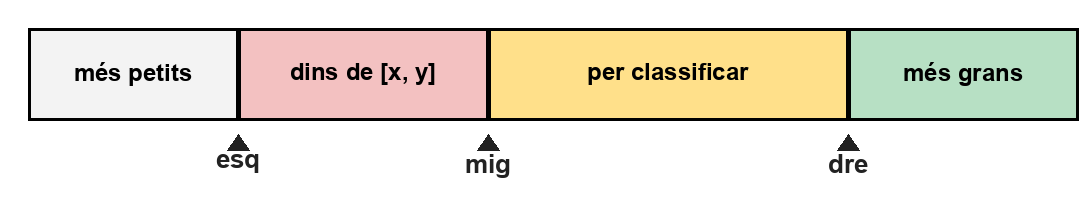
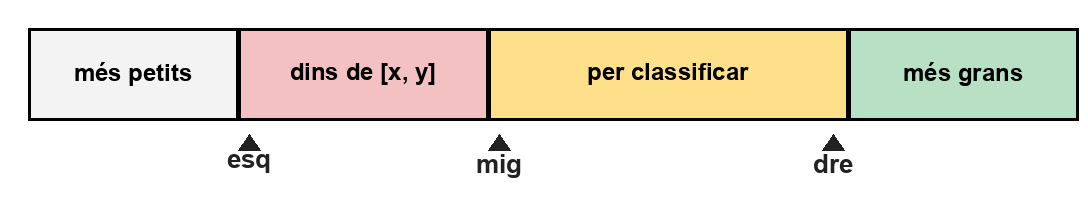
Invariants

Changed region(s): [[0.4062, 0.6408, 0.5, 0.8738], [0.75, 0.6408, 0.8125, 0.8447], [0.1875, 0.6699, 0.25, 0.8447]]

diff --git a/python/src/invariants/index.md b/python/src/invariants/index.md
@@ -159,15 +159,15 @@ Com heu vist, hem utilitzant l'invariant per guiar tota l'escriptura de la funci
 
 ## Capgirar els dígits
 
-Volem una funció que, donat un enter $m \ge 0$, en retorni un altre amb els mateixos dígits en base 10 escrits del revés. Aquests són alguns exemples:
+Volem una funció que, donat un enter $m \ge 0$, en retorni un altre $r$ amb els mateixos dígits en base 10 escrits del revés. Aquests són alguns exemples:
 
-|   `m` | resultat |
-| ----: | -------: |
-| 35276 |    67253 |
-|    19 |       91 |
-|     3 |        3 |
-|     0 |        0 |
-|   100 |        1 |
+|   `m` |   `r` |
+| ----: | ----: |
+| 35276 | 67253 |
+|    19 |    91 |
+|     3 |     3 |
+|     0 |     0 |
+|   100 |     1 |
 
 L'invariant el representa gràficament com a segueix:
 
@@ -200,11 +200,15 @@ def capgira_digits(m: int) -> int:
     return r
 ```
 
+Com veieu, un invariant gràfic com el donar ajuda a dissenyar i comprendre el bucle.
+
 ## Classificar els elements d'una llista
 
-Tenim una llista `L` i un interval `[x, y]`, amb $x \le y$. Volem reordenar `L` de manera que els elements menors que `x` quedin a la part esquerra, els majors que `y` a la part dreta, i els de l'interval al mig. Dins de cada part, l'ordre no importa.
+Tenim una llista `L` i un interval `[x, y]`, amb `x <= y`. Volem reordenar `L` de manera que els elements menors que `x` quedin a la part esquerra, els majors que `y` a la part dreta, i els de l'interval al mig. Dins de cada part, l'ordre no importa.
 
-Per a l'interval `[6, 9]` i la llista `[15, 7, 3, 0, 10, 6, 11, 9, 1, 13]`, un resultat possible és `[1, 3, 0, 7, 9, 6, 11, 10, 13, 15]`: els tres primers són menors que 6, els tres següents cauen dins de `[6, 9]` i els quatre últims són majors que 9.
+Per a l'interval `[6, 9]` i la llista `[15, 7, 3, 0, 10, 6, 11, 9, 1, 13]`, un resultat possible és `[1, 3, 0; 7, 9, 6; 11, 10, 13, 15]`: els tres primers són menors que 6, els tres següents cauen dins de `[6, 9]` i els quatre últims són majors que 9. Evidentment, hi ha altres resultats correctes possibles.
+
+Resoldre aquest problema amb una llista auxiliar és fàcil (penseu com fer-ho). Però ara ho farem sense per no haver de mantenir una còpia de tots els elements de la llista i, per tant, estalviar memòria.
 
 Per anar classificant sense fer servir una llista auxiliar, mantindrem quatre zones:
 
@@ -214,8 +218,8 @@ Els índexs `esq`, `mig` i `dre` marquen els límits de les zones:
 
 - `L[0:esq]` conté elements estrictament menors que `x`,
 - `L[esq:mig]` conté elements de l'interval `[x, y]`,
-- `L[mig:dre + 1]` conté elements encara per classificar,
-- `L[dre + 1:]` conté elements estrictament majors que `y`.
+- `L[dre + 1:]` conté elements estrictament majors que `y`,
+- `L[mig:dre + 1]` conté elements dels quals no s'afirma res.
 
 Això és l'invariant. La fletxa `dre` és al límit dret de la zona pendent: `dre` és l'índex de l'últim element per classificar, i tot el que queda a la seva dreta ja és més gran que `y`.
 
@@ -224,10 +228,14 @@ Al començament tota la llista està per classificar, així que `esq = mig = 0` 
 A cada volta mirem l'element `L[mig]`, el primer dels pendents:
 
 - Si és menor que `x`, l'intercanviem amb `L[esq]` i avancem `esq` i `mig`. L'element petit queda a la zona de l'esquerra. Si la zona del mig no era buida, l'element que hi havia a `esq` ja era de l'interval i, en avançar `mig`, continua dins d'aquesta zona. Si era buida, `esq` i `mig` coincideixen i l'intercanvi no mou res.
+
 - Si és major que `y`, l'intercanviem amb `L[dre]` i reculem `dre`. L'element gran passa a la zona de la dreta. L'element que arriba a la posició `mig` encara no l'hem mirat, i per això `mig` no avança.
+
 - Si cau dins de `[x, y]`, no es mou. Només avancem `mig`, i la zona del mig el va absorbint.
 
 Cada volta fa créixer `mig` o fa decréixer `dre`, de manera que la distància `dre - mig` baixa. El bucle acaba.
+
+El resultat és aquesta acció:
 
 ```python
 def classifica(L: list[int], x: int, y: int) -> None:
@@ -249,7 +257,9 @@ def classifica(L: list[int], x: int, y: int) -> None:
             mig = mig + 1
 ```
 
-Sobre l'exemple anterior, aquesta funció deixa exactament `[1, 3, 0, 7, 9, 6, 11, 10, 13, 15]`.
+Sobre l'exemple anterior, aquesta funció deixa exactament `[1, 3, 0; 7, 9, 6; 11, 10, 13, 15]`.
+
+Fixeu-vos que, per a tenir èxit, el nostre invariant ha hagut d'acomodar en certa manera una part desconeguda dels elements: la llista queda partida en quatre zones, no tres com el resultat exigeix.
 
 ## Com trobar un bon invariant
 
@@ -259,5 +269,11 @@ Els invariants són una manera efectiva d'obtenir algorismes iteratius correctes
 2. Descriviu l'estat del programa al començament d'una iteració qualsevol. Aquesta descripció és l'invariant.
 3. Declareu les variables que fan falta per escriure'l.
 4. Deduïu-ne la inicialització, la condició i el cos. L'ordre en què ho feu no és important: cadascun ha de complir l'obligació que li toca a l'esquema general, i cal comprovar que el bucle acaba.
+
+## Errors freqüents
+
+- No considerar l'invariant com a una propietat estàtica i atemporal del bucle, sinó com a una propietat dinàmica o temporal.
+- Treballar amb un invariant massa fort, cal afeblir el resultat desitjat per poder-hi anar convergint incrementalment a casa pas del bucle.
+- Treballar amb un invariant massa fluix, que no estableixi totes les relacions necessàries entre totes les variables del bucle.
 
 <Autors autors="jordic jpetit"/>
